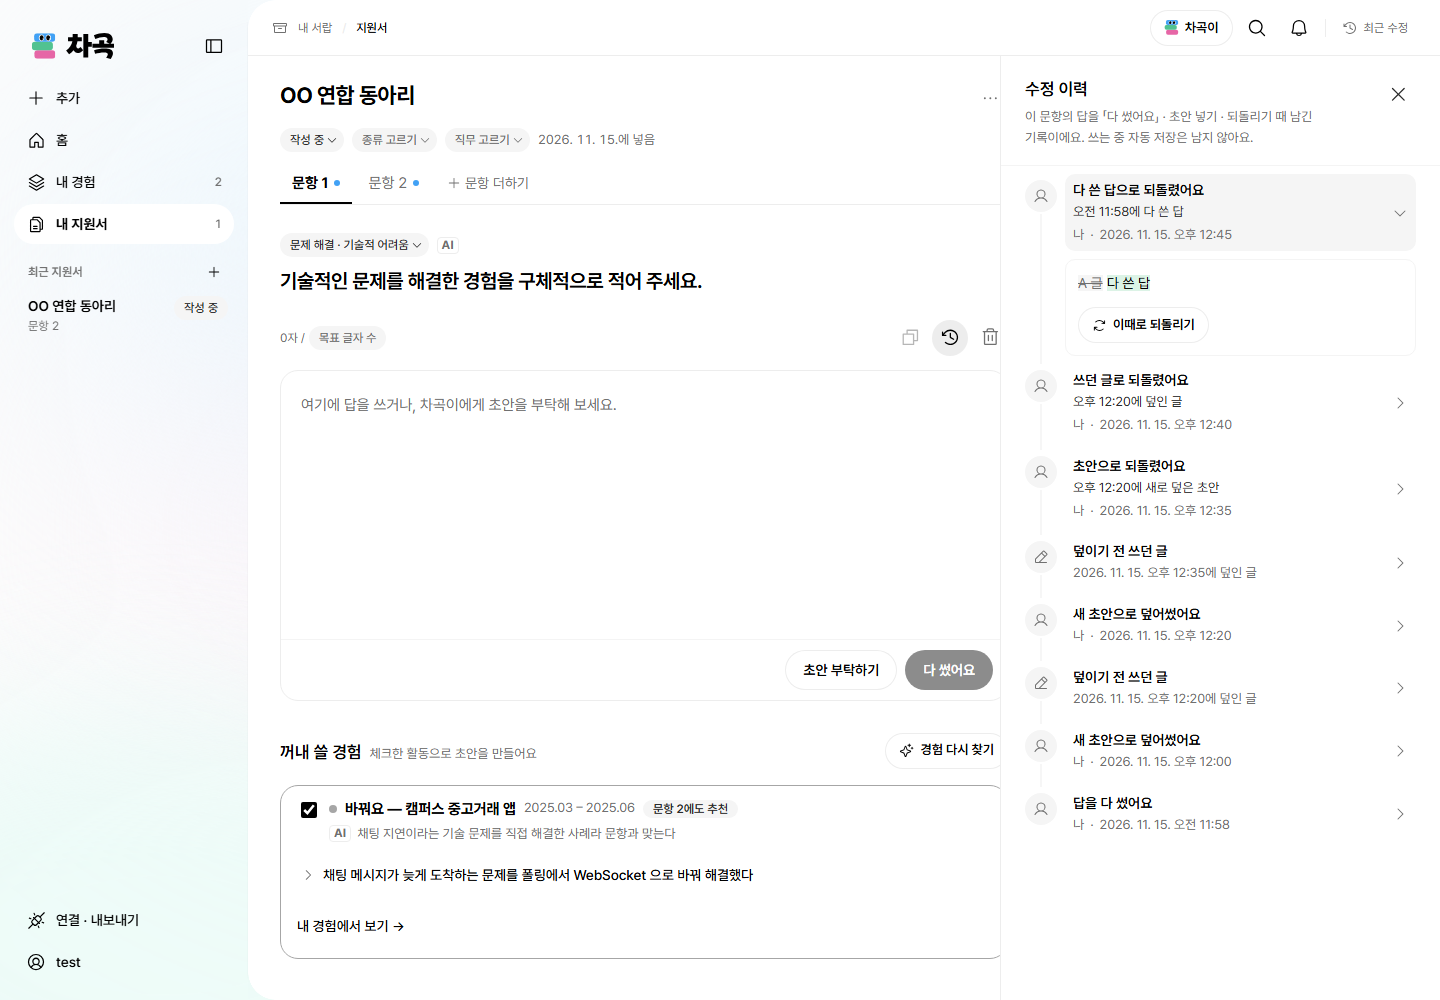
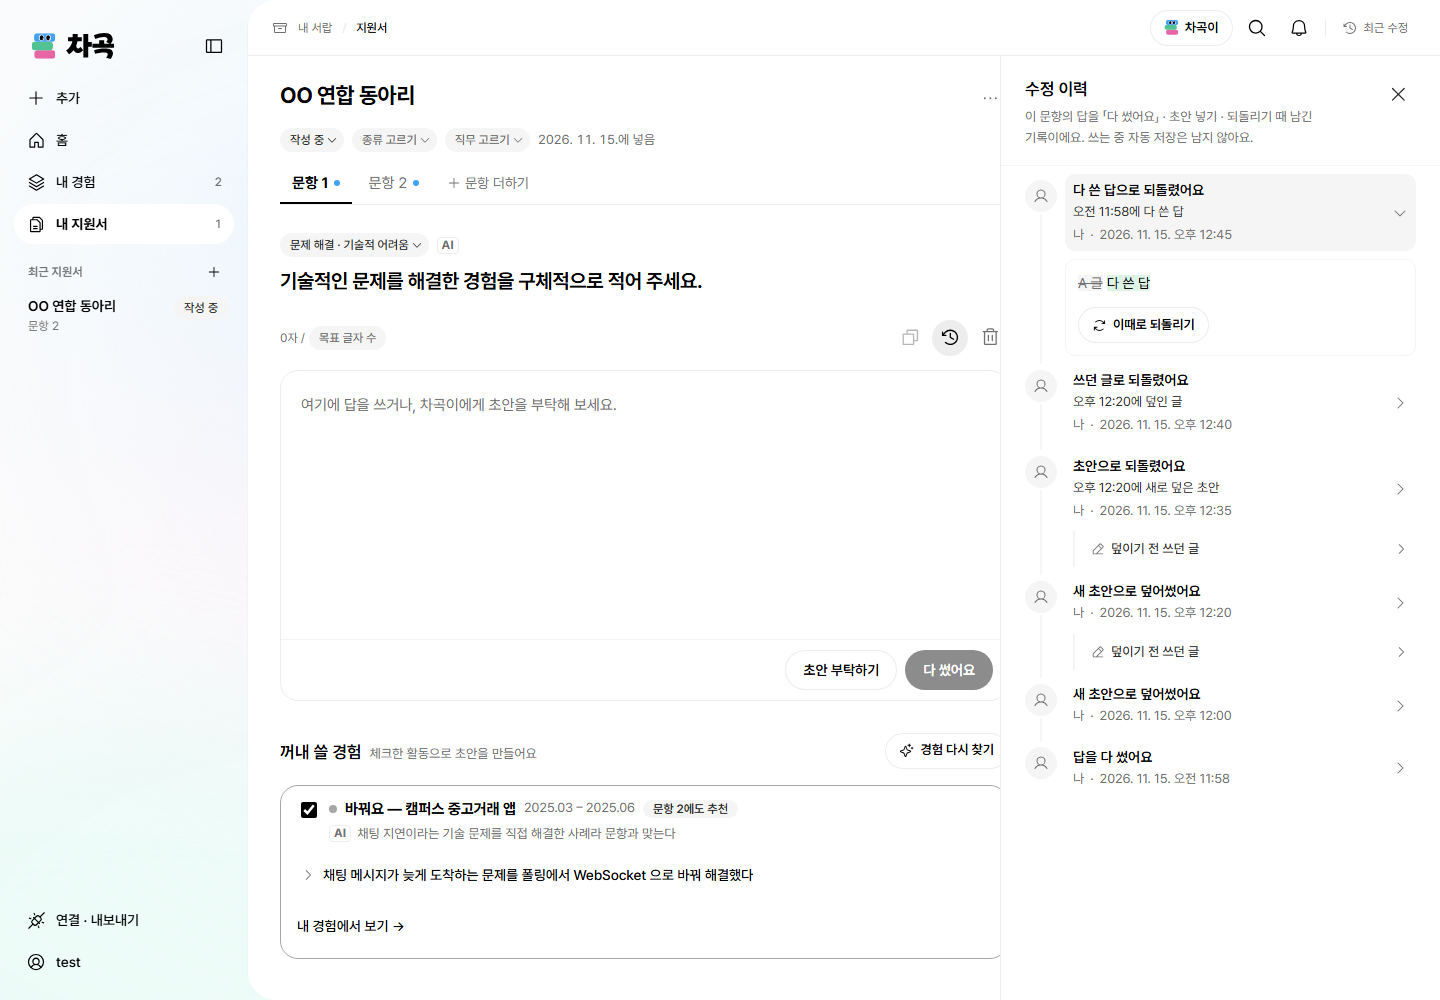
fix(questions): 「덮이기 전 쓰던 글」을 덮은 줄 안에 들여 붙인다 (#652)
따로 일어난 일처럼 타임라인 점 · 같은 시각을 달고 있어 헷갈렸다. 위 기록에 딸린 하위 항목으로 — 점 · 시각 없이 펼치면 글 차이와 되돌리기.

Changed region(s): [[0.7188, 0.527, 0.875, 0.837]]

diff --git a/src/components/revisions/revision-list.tsx b/src/components/revisions/revision-list.tsx
@@ -9,7 +9,7 @@
 // 줄은 세로선 타임라인에 접어 두고 한 줄 요약만 보인다 — 펼치면 바뀐 부분만 강조한 글 · 짧은 값 · 되돌리기(FE#413)
 // 「최근 수정」에는 외부 AI 변경 기록(mcp-api)도 시간순으로 섞는다 — 맞아요 · 되돌리기는 그 줄에서. 같은 변경(mcpChangeId)의
 // 수정 이력 줄은 변경 기록 줄 하나로 보인다(S-54 · S-80 · FE#517 — 계약은 그대로, FE 가 합친다)
-import { Fragment, useCallback, useEffect, useId, useRef, useState, useSyncExternalStore, type ReactNode } from "react";
+import { useCallback, useEffect, useId, useRef, useState, useSyncExternalStore, type ReactNode } from "react";
 import { createPortal } from "react-dom";
 import Link from "next/link";
 import { ArrowRightIcon, ArrowsClockwiseIcon, CaretDownIcon, ClockCounterClockwiseIcon, DotsThreeIcon, FlagIcon, PencilSimpleLineIcon, RobotIcon, UserIcon, XIcon } from "@phosphor-icons/react";
@@ -159,11 +159,13 @@ function restoreError(e: unknown) {
 }
 
 /** 이력 한 줄 — 세로선 위 아이콘(나 / 외부 AI) · 접힌 머리(요약 · 대상 · 누가 · 언제). 펼치면 차이 · 짧은 값 · 되돌리기 */
-function Row({ revision: r, label, all, linkable = all, origin = false, current, badge, last, defaultOpen, beforeRestore, onRestored, onNavigate }: {
+function Row({ revision: r, label, all, linkable = all, origin = false, current, badge, last, defaultOpen, beforeRestore, onRestored, onNavigate, children }: {
   /** current — 이 줄의 값이 지금 값과 같다(되돌릴 것이 없다). badge — 그중 가장 새 줄에만 「현재」.
    *  origin — 이 항목의 가장 오래된 기록(활동 단위 목록) — 「처음 값으로 되돌리기」를 같이 둔다. linkable — 그 항목으로 가는 링크 */
   revision: Revision; label?: { title: string; note?: string } | null; all: boolean; linkable?: boolean; origin?: boolean; current: boolean; badge: boolean; last: boolean; defaultOpen: boolean;
   beforeRestore?: BeforeRestore; onRestored: (result: RestoreResult) => void; onNavigate?: () => void;
+  /** 이 줄에 딸린 하위 항목 — 「덮이기 전 쓰던 글」(FE#652) */
+  children?: ReactNode;
 }) {
   const [open, setOpen] = useState(defaultOpen);
   const link = linkable ? targetLink(r) : null;
@@ -208,6 +210,7 @@ function Row({ revision: r, label, all, linkable = all, origin = false, current,
         {/* 활동 단위 목록엔 항목마다 「처음 값」 줄을 따로 두지 않는다 — 그 항목의 가장 오래된 줄에서 첫 수정 전으로(FE#467) */}
         {origin && !r.target.deleted && before !== "" && <RestoreAction revision={r} to="BEFORE" label="처음 값으로 되돌리기" question="이 항목을 첫 수정 전 값으로 되돌릴까요?" beforeRestore={beforeRestore} onRestored={onRestored} />}
       </div>}
+      {children}
     </div>
   </li>;
 }
@@ -279,32 +282,27 @@ function OriginRow({ oldest: r, current, beforeRestore, onRestored }: {
 }
 
 /** 답을 통째로 바꾼 기록의 덮인 쓰던 글(before) — 그 기록 바로 아래에 그린다. prev 는 그보다 앞선 기록의 글(차이를 보일 기준, 모르면 null) */
-function KeptRow({ revision: r, prev, now, last, beforeRestore, onRestored }: {
-  /** now — 지금 답칸 글이다. 줄은 남기고 되돌리기만 없다(FE#652 — 숨기면 왔다 갔다 할 때 생겼다 없어졌다 한다) */
-  revision: Revision; prev: string | null; now: boolean; last: boolean; beforeRestore?: BeforeRestore; onRestored: (result: RestoreResult) => void;
+function KeptRow({ revision: r, prev, now, beforeRestore, onRestored }: {
+  /** now — 지금 답칸 글이다. 항목은 남기고 되돌리기만 없다(FE#652 — 숨기면 왔다 갔다 할 때 생겼다 없어졌다 한다) */
+  revision: Revision; prev: string | null; now: boolean; beforeRestore?: BeforeRestore; onRestored: (result: RestoreResult) => void;
 }) {
+  // 따로 일어난 일이 아니라 위 기록이 덮은 글이다 — 타임라인 점 · 시각 없이 그 줄 안에 들여 붙인다(FE#652)
   const [open, setOpen] = useState(false);
   const text = r.before.text ?? "";
-  return <li className="relative grid grid-cols-[2rem_minmax(0,1fr)] gap-x-2 pb-2">
-    {!last && <span aria-hidden="true" className="absolute top-10 bottom-0 left-4 w-px -translate-x-1/2 bg-hairline" />}
-    <span aria-hidden="true" className="mt-1.5 flex size-8 items-center justify-center rounded-full bg-surface-soft text-muted"><PencilSimpleLineIcon className="size-4" /></span>
-    <div className="min-w-0">
-      <button type="button" aria-expanded={open} onClick={() => setOpen(o => !o)}
-        className={cn("flex min-h-11 w-full min-w-0 items-center gap-2 rounded-sm px-2 py-1.5 text-left hover:bg-surface-soft focus-visible:outline-2 focus-visible:outline-ink", open && "bg-surface-soft")}>
-        <span className="min-w-0 flex-1">
-          <span className="block text-sm font-semibold text-ink">덮이기 전 쓰던 글</span>
-          <span className="mt-0.5 block text-note text-muted"><time dateTime={r.createdAt}>{timestamp(r.createdAt)}</time>에 덮인 글</span>
-        </span>
-        <CaretDownIcon aria-hidden="true" className={cn("size-4 shrink-0 text-muted transition-transform", !open && "-rotate-90")} />
-      </button>
-      {open && <div className="mt-2 grid gap-3 rounded-sm border border-hairline-soft p-3">
-        {prev !== null && prev !== text ? <TextDiff before={prev} after={text} />
-          : <p className="m-0 max-h-60 overflow-auto whitespace-pre-wrap break-words text-sm leading-relaxed text-body">{text}</p>}
-        {now ? <p className="m-0 text-note text-muted">지금 값이에요.</p>
-          : <RestoreAction revision={r} to="BEFORE" label="이때로 되돌리기" question="덮이기 전 쓰던 글로 되돌릴까요?" beforeRestore={beforeRestore} onRestored={onRestored} />}
-      </div>}
-    </div>
-  </li>;
+  return <div className="mt-1 ml-2 border-l-2 border-hairline-soft pl-2">
+    <button type="button" aria-expanded={open} onClick={() => setOpen(o => !o)}
+      className={cn("flex min-h-11 w-full min-w-0 items-center gap-1.5 rounded-sm px-2 py-1 text-left hover:bg-surface-soft focus-visible:outline-2 focus-visible:outline-ink lg:min-h-9", open && "bg-surface-soft")}>
+      <PencilSimpleLineIcon aria-hidden="true" className="size-3.5 shrink-0 text-muted" />
+      <span className="min-w-0 flex-1 text-note font-medium text-body">덮이기 전 쓰던 글</span>
+      <CaretDownIcon aria-hidden="true" className={cn("size-3.5 shrink-0 text-muted transition-transform", !open && "-rotate-90")} />
+    </button>
+    {open && <div className="mt-1 grid gap-3 rounded-sm border border-hairline-soft p-3">
+      {prev !== null && prev !== text ? <TextDiff before={prev} after={text} />
+        : <p className="m-0 max-h-60 overflow-auto whitespace-pre-wrap break-words text-sm leading-relaxed text-body">{text}</p>}
+      {now ? <p className="m-0 text-note text-muted">지금 값이에요.</p>
+        : <RestoreAction revision={r} to="BEFORE" label="이때로 되돌리기" question="덮이기 전 쓰던 글로 되돌릴까요?" beforeRestore={beforeRestore} onRestored={onRestored} />}
+    </div>}
+  </div>;
 }
 
 /** 외부 AI 변경 한 줄 — 머리는 수정 이력 줄과 같은 모양(누가 · 무엇을 · 대상 · 상태 · 언제), 펼치면 변경 카드(맞아요 · 되돌리기) */
@@ -524,10 +522,9 @@ export function RevisionList({ target, activityId, current, beforeRestore, onRes
       renderRevision={(r, last) => {
         const i = state.revisions.indexOf(r);
         const kept = keptOf(state.revisions, i);
-        return <Fragment key={`r${r.id}`}>
-          <Row revision={r} label={answerLabel(state.revisions, i)} all current={false} badge={false} last={last && !kept} defaultOpen={false} beforeRestore={before} onRestored={restored} onNavigate={onNavigate} />
-          {kept && <KeptRow revision={r} prev={kept.prev} now={false} last={last} beforeRestore={before} onRestored={restored} />}
-        </Fragment>;
+        return <Row key={`r${r.id}`} revision={r} label={answerLabel(state.revisions, i)} all current={false} badge={false} last={last} defaultOpen={false} beforeRestore={before} onRestored={restored} onNavigate={onNavigate}>
+          {kept && <KeptRow revision={r} prev={kept.prev} now={false} beforeRestore={before} onRestored={restored} />}
+        </Row>;
       }}
       renderChange={(c, last) => <ChangeRow key={`c${c.id}`} change={c} last={last} outcome={changeOutcomes[c.id]} onChange={decided} onStale={() => void loadChanges()} onNavigate={onNavigate} />} />
     {moreButton}
@@ -542,10 +539,10 @@ export function RevisionList({ target, activityId, current, beforeRestore, onRes
         return { r, i, kept, minor: minorOf(r, kept, i === 0) };
       })).map((block, b, blocks) => {
         const end = b === blocks.length - 1 && !origin;
-        const one = ({ r, i, kept }: { r: Revision; i: number; kept: ReturnType<typeof keptOf> }, last: boolean) => <Fragment key={r.id}>
-          <Row revision={r} label={answerLabel(state.revisions, i)} all={!target} linkable={!target && activityId == null} origin={isOrigin(r)} current={isNow(r.after, r.targetType, r)} badge={activityId != null ? latest(r) === r && isNow(r.after, r.targetType, r) : i === nowIndex} last={last && !kept} defaultOpen={!!target && i === 0} beforeRestore={before} onRestored={restored} onNavigate={onNavigate} />
-          {kept && <KeptRow revision={r} prev={kept.prev} now={kept.now} last={last} beforeRestore={before} onRestored={restored} />}
-        </Fragment>;
+        const one = ({ r, i, kept }: { r: Revision; i: number; kept: ReturnType<typeof keptOf> }, last: boolean) =>
+          <Row key={r.id} revision={r} label={answerLabel(state.revisions, i)} all={!target} linkable={!target && activityId == null} origin={isOrigin(r)} current={isNow(r.after, r.targetType, r)} badge={activityId != null ? latest(r) === r && isNow(r.after, r.targetType, r) : i === nowIndex} last={last} defaultOpen={!!target && i === 0} beforeRestore={before} onRestored={restored} onNavigate={onNavigate}>
+            {kept && <KeptRow revision={r} prev={kept.prev} now={kept.now} beforeRestore={before} onRestored={restored} />}
+          </Row>;
         if (!Array.isArray(block)) return one(block, end);
         return <FoldRow key={`f${block[0].r.id}`} count={block.length} from={block.at(-1)!.r.createdAt} to={block[0].r.createdAt} last={end}>
           {block.map((row, j) => one(row, end && j === block.length - 1))}
